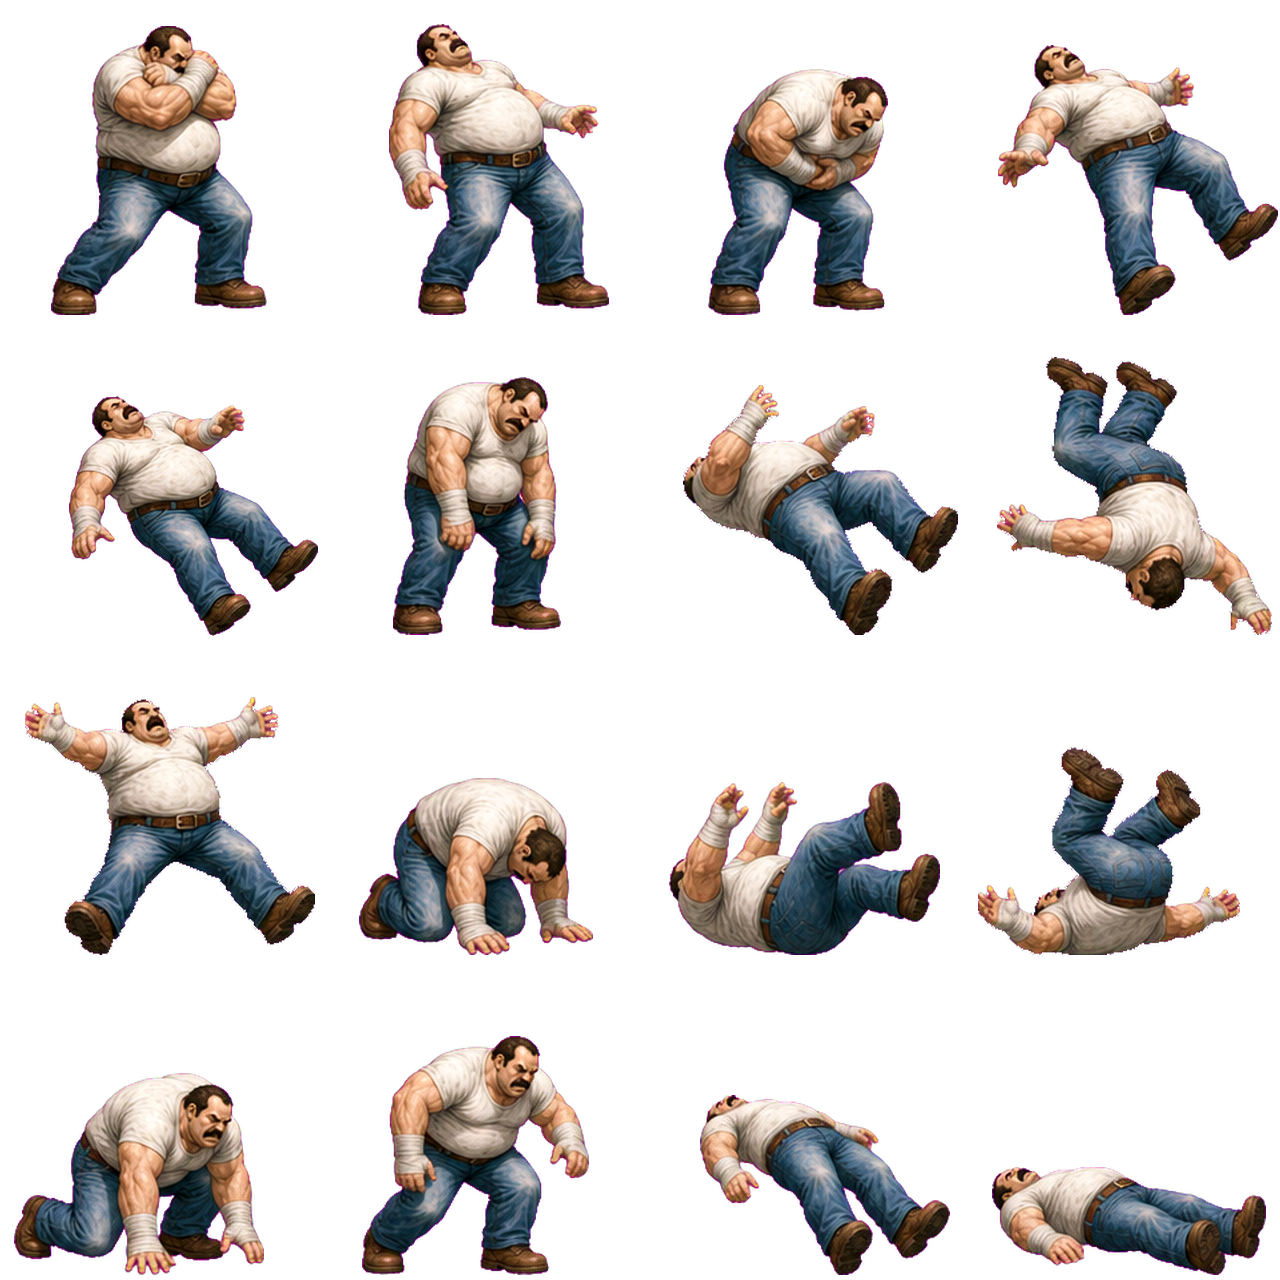
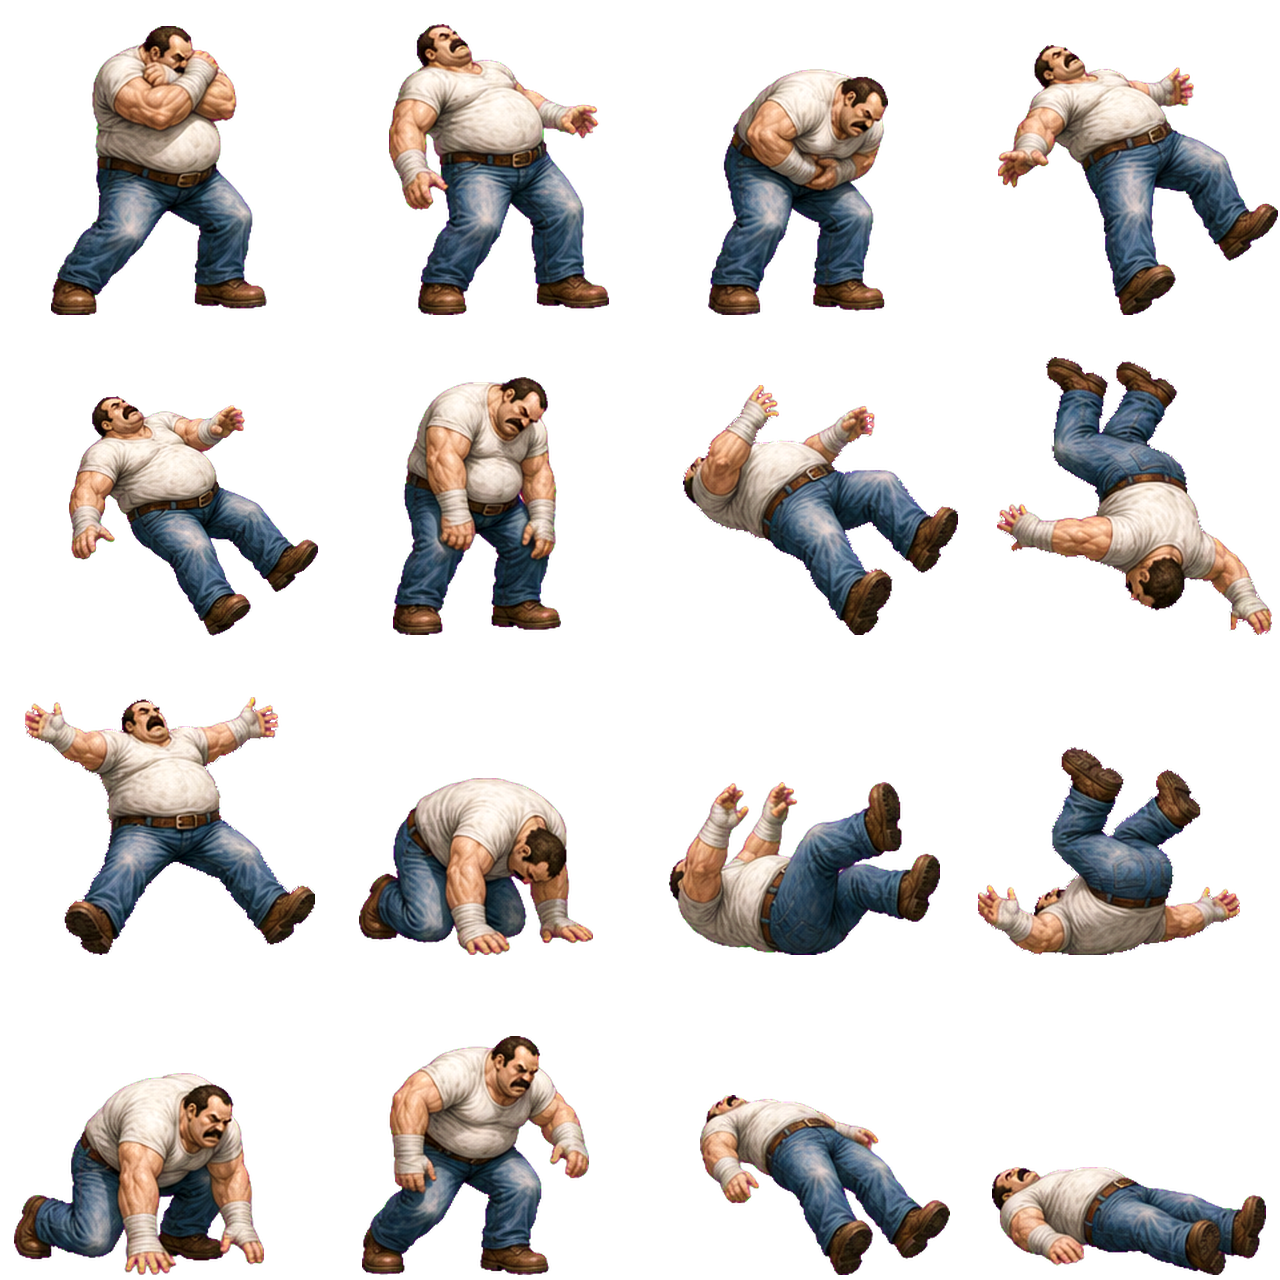
art(final-blow): despill the generated ext banks — the magenta rim the key solve kept
Every shipped ext2/ext3/ext4 sheet carried a magenta rim the model paints on
figures against the magenta key (2-4% of each sheet's opaque pixels; zero on
the main sheets): a pink outline on every in-between, strike and reaction cell
on a dark stage, and the devil's 3.7-4.2 dE. build_sheet.py now refills
magenta-hued pixels from their non-magenta neighbours (inpaint_magenta) and
all thirty sheets are rebuilt from their archived raws at the manifest scale —
registration byte-identical (heights, centres, adjusts unchanged, verified by
rebuild_ext_banks.py), weighted dE 0.75-1.97. Also lands the ext5 (locomotion,
air, bookends) and ext8 (in-betweens for the four fighters without an ext
sheet) grammars and the generator's look table for the v5.2 art wave.

diff --git a/2026-08-20/final-blow/tools/swing/build_sheet.py b/2026-08-20/final-blow/tools/swing/build_sheet.py
@@ -36,10 +36,26 @@ BANKS = {
         "wall-splat", "crumple", "falling", "floor-bounce",
         "getup-a", "getup-b", "thrown", "ko",
     ], {0, 1, 4}),
+    # v5.2 locomotion / air / bookend sheet.
+    "ext5": ([
+        "dash-launch", "dash-stretch", "dash-brake", "turnaround",
+        "apex-tuck", "descent", "air-recover", "air-hit-upright",
+        "power-charge", "entrance-a", "entrance-b", "victory",
+        "taunt", "crouch-guard-flinch", "throw-grab", "dizzy-sway",
+    ], {0, 2, 3, 8, 9, 10, 11, 12, 14}),
+    # v5.2 ext (8-cell in-between grammar) for the four fighters that never had
+    # one, generated as two takes of the eight poses; the slicer keeps all 16
+    # and the installer picks per cell.
+    "ext8": ([
+        "idle-breathe", "walk-down-a", "walk-down-b", "jump-ascent",
+        "jump-descend", "punch-windup", "kick-windup", "mid-reaction",
+        "idle-breathe-b", "walk-down-a-b", "walk-down-b-b", "jump-ascent-b",
+        "jump-descend-b", "punch-windup-b", "kick-windup-b", "mid-reaction-b",
+    ], {0, 1, 2, 5, 6, 7, 8, 9, 10, 13, 14, 15}),
 }
 IDS = None
 STANDING = None
-PURGE_PURPLE = {"ext4": (8, 11, 6, 7)}
+PURGE_PURPLE = {"ext4": (8, 11, 6, 7), "ext5": (7, 13)}
 
 
 def key_unmultiply(rgb):
@@ -53,6 +69,42 @@ def key_unmultiply(rgb):
     # Hard interior keeps the raw colour exactly.
     fg = np.where(a >= 0.98, rgb, fg)
     return fg, alpha
+
+
+def inpaint_magenta(fg, alpha, iterations=6):
+    """v5.2 DESPILL. The model paints a magenta RIM on dark figures against the
+    magenta key (a real glow it invents, not a blend), and the key solve keeps
+    it: 2-4% of every shipped ext2/ext3/ext4 sheet's opaque pixels were magenta
+    while the main sheets had none — a pink outline on every in-between, strike
+    and reaction cell on a dark stage. No costume on the roster is magenta, so
+    a magenta-hued pixel anywhere on a figure is spill: refill it from the
+    nearest non-magenta neighbours (iterative dilation) and keep its alpha."""
+    r, g, b = fg[..., 0], fg[..., 1], fg[..., 2]
+    spill = (alpha > 0.02) & (r > g + 40) & (b > g + 40) & (np.minimum(r, b) > 80)
+    if not spill.any():
+        return fg, 0
+    out = fg.copy()
+    valid = (alpha > 0.02) & ~spill
+    filled = spill.copy()
+    count = int(spill.sum())
+    for _ in range(iterations):
+        if not filled.any():
+            break
+        acc = np.zeros_like(out); n = np.zeros(out.shape[:2], dtype=np.float32)
+        for dy in (-1, 0, 1):
+            for dx in (-1, 0, 1):
+                if dy == 0 and dx == 0:
+                    continue
+                sv = np.roll(np.roll(valid, dy, axis=0), dx, axis=1)
+                so = np.roll(np.roll(out, dy, axis=0), dx, axis=1)
+                acc += so * sv[..., None]; n += sv
+        can = filled & (n > 0)
+        out[can] = acc[can] / n[can][:, None]
+        valid = valid | can
+        filled = filled & ~can
+    # Whatever could not be refilled (an isolated fleck) loses its alpha.
+    alpha = np.where(filled, 0.0, alpha)
+    return out, count
 
 
 def keep_main_components(alpha, min_ratio=0.006, reach=28):
@@ -142,6 +194,8 @@ def main():
         r, g, b = cell[..., 0], cell[..., 1], cell[..., 2]
         purple = (r > g + 45) & (b > g + 45) & (np.minimum(r, b) > 70)
         alpha[cy:cy + CELL_IN, cx:cx + CELL_IN][purple] = 0
+    fg, spilled = inpaint_magenta(fg, alpha)
+    print("despilled magenta px", spilled)
     rgba = np.dstack([fg, alpha * 255]).astype(np.uint8)
     rgba[alpha == 0] = 0
     keyed = Image.fromarray(rgba, "RGBA")

diff --git a/2026-08-20/final-blow/tools/swing/rebuild_ext_banks.py b/2026-08-20/final-blow/tools/swing/rebuild_ext_banks.py
@@ -1,0 +1,55 @@
+"""v5.2 — rebuild every shipped ext2/ext3/ext4 sheet from its archived raw with
+the despilled slicer, at the scale the manifest records, and diff the measured
+heights / body centres / draw adjusts against the engine's tables so the
+rebuild is pixels-only (a registration change would need the tables patched).
+
+Usage: rebuild_ext_banks.py [--apply]   (without --apply: build into out-fix/ and report)
+"""
+import json, os, subprocess, sys
+A = os.path.dirname(os.path.abspath(__file__))
+G = "/home/jez237/.openclaw/agents/gamemaster/workspace/final-blow-roadmap2/2026-08-20/final-blow"
+V = sys.executable
+IDS = ["deathblow", "jez", "alan", "post", "benny", "donald", "cyraxx", "ali", "commissioner", "devil"]
+man = json.load(open(f"{G}/assets/unified/MANIFEST.json"))["fighters"]
+tables = json.load(open(os.path.join(A, "engine-tables.json")))
+apply = "--apply" in sys.argv
+os.makedirs(os.path.join(A, "out-fix"), exist_ok=True)
+
+def raw_for(fid, bank):
+    if fid == "ali":
+        return os.path.join(A, f"raw-ali-{bank}-g5.png")
+    if bank == "ext2":
+        return os.path.join(A, "..", "inbetweens-v49", f"raw-{fid}-g1.png")
+    return os.path.join(A, f"raw-{fid}-{bank}.png")
+
+report = []
+for fid in IDS:
+    for bank in ["ext2", "ext3", "ext4"]:
+        raw = raw_for(fid, bank)
+        if not os.path.exists(raw):
+            report.append((fid, bank, "NO RAW")); continue
+        scale = man[fid][f"{bank}Scale"]
+        out = os.path.join(A, "out-fix", f"{fid}-{bank}.webp")
+        res = subprocess.run([V, os.path.join(A, "build_sheet.py"), fid, raw, "--bank", bank, "--scale", str(scale), "--out", out],
+                             capture_output=True, text=True)
+        if res.returncode != 0:
+            report.append((fid, bank, "BUILD FAILED " + res.stderr[-300:])); continue
+        despilled = [l for l in res.stdout.splitlines() if l.startswith("despilled")]
+        side = json.load(open(os.path.join(A, f"{bank}-{fid}.json")))
+        cells = side["cells"]
+        heights = [c.get("height", 0) for c in cells]
+        centres = [c.get("bodyCentre", 160) for c in cells]
+        adjust = {str(c["frame"]): round(c.get("drawAdjust", 1.0), 4) for c in cells if c.get("drawAdjust", 1.0) > 1.0}
+        t = tables[bank][fid]
+        dh = [(i, a, b) for i, (a, b) in enumerate(zip(heights, t["heights"])) if abs(a - b) > 1]
+        dc = [(i, a, b) for i, (a, b) in enumerate(zip(centres, t["centres"])) if abs(a - b) > 1]
+        ta = {k: round(v, 4) for k, v in t["adjust"].items()}
+        da = {k: (adjust.get(k), ta.get(k)) for k in set(adjust) | set(ta) if abs((adjust.get(k) or 1) - (ta.get(k) or 1)) > 0.002}
+        de = subprocess.run([V, os.path.join(A, "measure_de.py"), f"{G}/assets/unified/{fid}.webp", out], capture_output=True, text=True).stdout.strip().splitlines()[-1]
+        report.append((fid, bank, f"{despilled[0] if despilled else '?'} | dH {dh} | dC {dc} | dA {da} | {de.split('weighted:')[-1].strip()} dE"))
+        if apply and not dh and not dc and not da:
+            dest = f"{G}/assets/unified/{fid}-{bank}.webp"
+            if os.path.exists(dest) and os.stat(dest).st_nlink > 1: os.remove(dest)
+            os.replace(out, dest) if False else subprocess.run(["cp", out, dest], check=True)
+for r in report:
+    print(r[0].ljust(13), r[1], r[2])

diff --git a/2026-08-20/final-blow/tools/swing/gen_all.py b/2026-08-20/final-blow/tools/swing/gen_all.py
@@ -15,7 +15,8 @@ LOOK = {
   "benny": "a wiry man in a dark cap, black t-shirt and khaki cargo trousers with dark shoes",
   "donald": "a heavyset older man with blonde hair in a navy suit, white shirt and long red tie, with gold knee shields and black shoes",
   "cyraxx": "a thin dishevelled man with long hair and a beard in a grey t-shirt and worn grey-brown trousers",
-  "ali": "a man in a red beanie, sunglasses, a bright yellow track suit and yellow-and-black sneakers",
+  "ali": "a slim, light-skinned man with a dark goatee, small dark sunglasses, a red beanie, a bright yellow tracksuit with black side stripes, a heavy gold chain, yellow-and-black sneakers and a black-and-gold boombox slung on his back (the boombox stays on his back in EVERY cell)",
+  "jez": "a lean man with swept-back white hair in a blue martial-arts gi with a dark belt, blue trousers and brown boots",
   "commissioner": "a stern older man with white hair in a black suit, black tie and black shoes",
   "devil": "a lean winged creature with scaled skin, clawed hands and feet, horns, a long tail and a moss-green cloth wrapped around its shins",
 }
